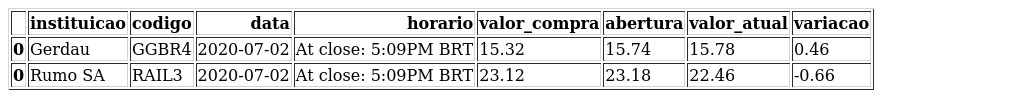
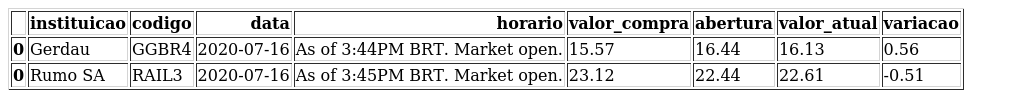
melhorias na function get_quote

diff --git a/src/app.py b/src/app.py
@@ -1,7 +1,7 @@
-from conf.settings import DRIVER, GERDAU_DAY, RUMO_DAY, EMAIL_USER, PASSWORD, EMAIL_FROM, TABELA
+from conf.settings import GERDAU_DAY, RUMO_DAY, EMAIL_USER, PASSWORD, EMAIL_FROM, TABELA
 import pandas as pd
 from selenium import webdriver
-from load import get_quote
+from extract import get_quote
 from transformation import variation, bind
 from save import save_df_as_image
 from save.email import send_email
@@ -16,20 +16,17 @@ def main():
 
     if hoje in list_days:
 
-        #Carregando o webdriver
-        driver = webdriver.Chrome(DRIVER)
-
         #Dados Gerdau
         path = GERDAU_DAY
         inst = "Gerdau"
         cod = "GGBR4"
-        df_gerdau = get_quote(path, inst, cod, 15.32, driver)
+        df_gerdau = get_quote(path, inst, cod, 15.57)
 
         #Dados do Rumo SA
         path = RUMO_DAY
         inst = "Rumo SA"
         cod = 'RAIL3'
-        df_rumo = get_quote(path, inst, cod, 23.12, driver)
+        df_rumo = get_quote(path, inst, cod, 23.12)
 
         df_gerdau = variation(df_gerdau)
         df_rumo = variation(df_rumo)
@@ -44,8 +41,8 @@ def main():
     else:
         print ("A BV está fechada!")
 
-schedule.every(1).days.at("10:00").do(main)
-schedule.every(1).days.at("15:00").do(main)
+schedule.every(1).days.at("10:15").do(main)
+schedule.every(1).days.at("15:15").do(main)
 
 while True:
     schedule.run_pending()

diff --git a/src/extract/__init__.py b/src/extract/__init__.py
@@ -1,0 +1,31 @@
+import urllib.request
+from bs4 import BeautifulSoup
+import datetime
+import pandas as pd
+
+def get_quote(path, inst, cod, value):
+    valor_de_compra = value
+    data = datetime.date.today()
+    
+    #Acessando o portal finance do Yahoo
+    content = urllib.request.urlopen(path).read()
+    soup = BeautifulSoup(content,'lxml')
+
+    abertura = []
+    horario = []
+
+    abertura_ =soup.find_all('span', attrs={'class':"Trsdu(0.3s)"})
+    horario_ = soup.find_all('div', attrs={'id':'quote-market-notice'})
+    
+    for a in abertura_:
+        abertura.append(a.get_text())
+
+    for hr in horario_:
+        horario.append(hr.get_text())
+
+    valor_atual = abertura[0]
+    
+    #Criando o dataframe
+    df = pd.DataFrame({'instituicao':[inst],"codigo": [cod], "data":[data], "horario": [horario[0]],'valor_compra':[valor_de_compra], 'abertura':[float(abertura[3])], 'valor_atual': [float(valor_atual)]})
+    
+    return df

diff --git a/src/conf/settings.py b/src/conf/settings.py
@@ -10,4 +10,3 @@ EMAIL_USER = os.getenv("EMAIL_USER")
 PASSWORD = os.getenv("PASSWORD")
 EMAIL_FROM = [os.getenv("EMAIL_FROM1"), os.getenv('EMAIL_USER')]
 TABELA = os.getenv("TABELA")
-DRIVER = os.getenv("DRIVER")
